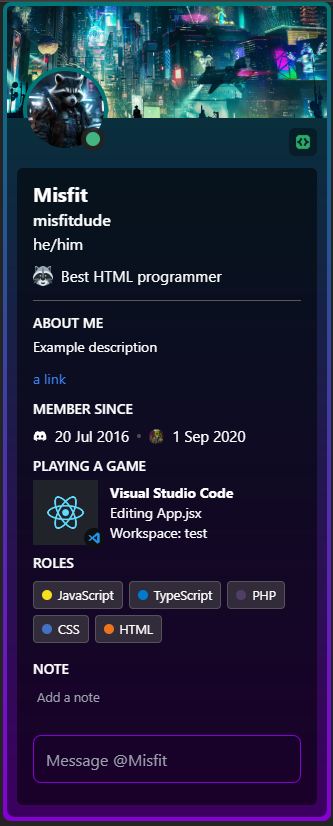
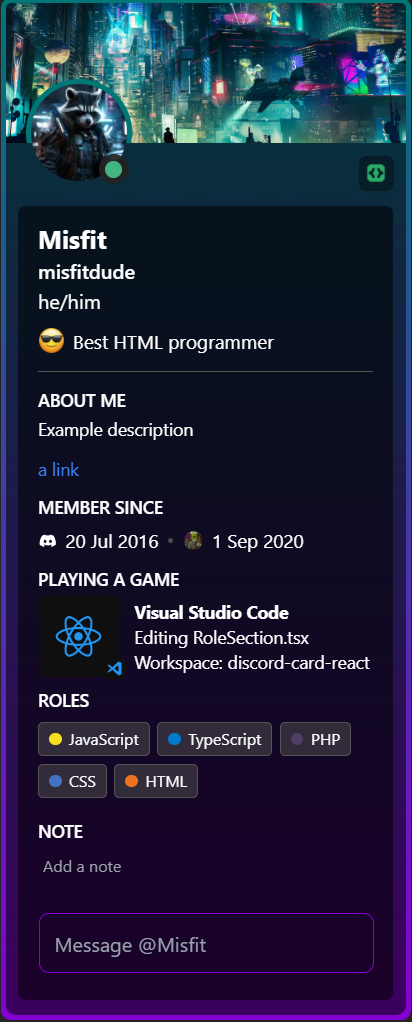
update: add rounded corners to activities

diff --git a/src/components/SpotifySection.tsx b/src/components/SpotifySection.tsx
@@ -62,10 +62,10 @@ const SpotifySection = ({
           <div>
             {trackUrl ? (
               <a href={trackUrl} target="_blank">
-                <img src={artUrl} className="w-[65px] h-[65px] select-none" alt={album} />
+                <img src={artUrl} className="w-[65px] h-[65px] select-none rounded-md" alt={album} />
               </a>
             ) : (
-              <img src={artUrl} className="w-[65px] h-[65px] select-none" alt={album} />
+              <img src={artUrl} className="w-[65px] h-[65px] select-none rounded-md" alt={album} />
             )}
           </div>
         )}

diff --git a/src/components/GameSection.tsx b/src/components/GameSection.tsx
@@ -45,7 +45,7 @@ const GameSection = ({
         {largeImage ? (
           <div className="flex gap-1">
             <div className="relative justify-center items-center">
-              <img src={largeImage} alt="" className="w-[65px] h-[65px] select-none object-cover" />
+              <img src={largeImage} alt="" className="w-[65px] h-[65px] select-none object-cover rounded-md" />
               {smallImage && (
                 <img
                   src={smallImage}
